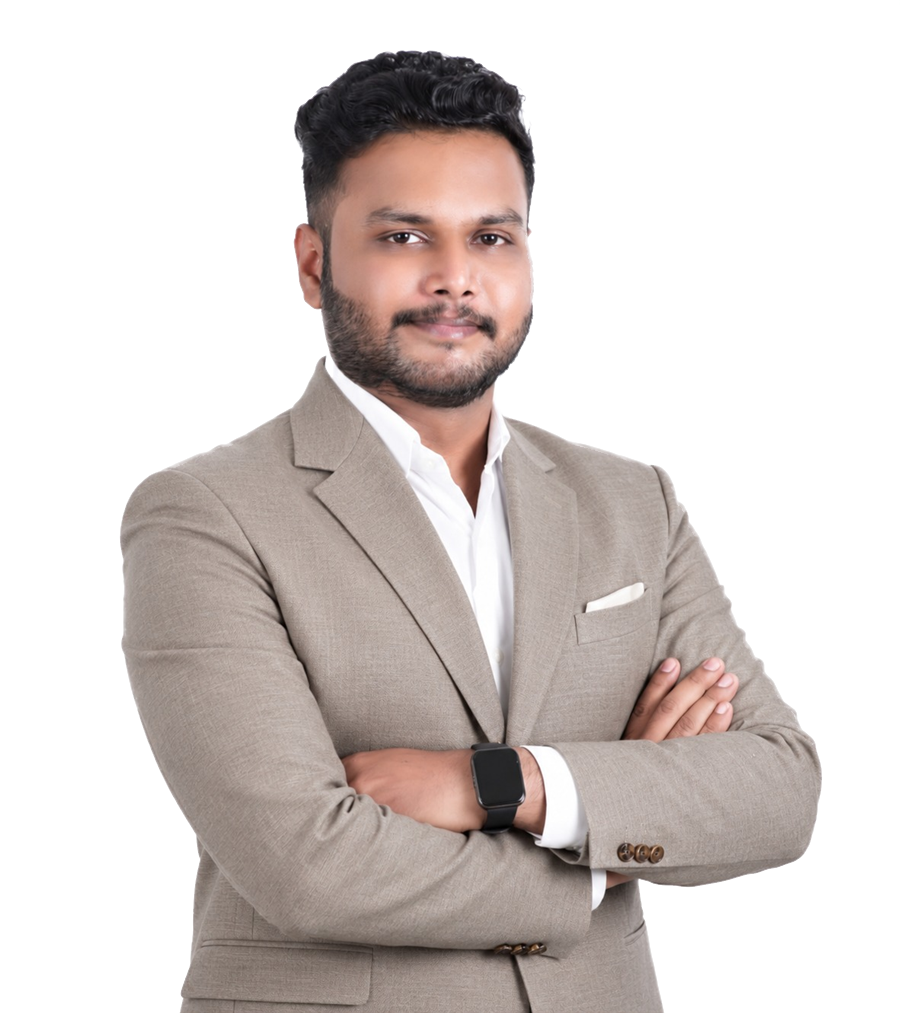
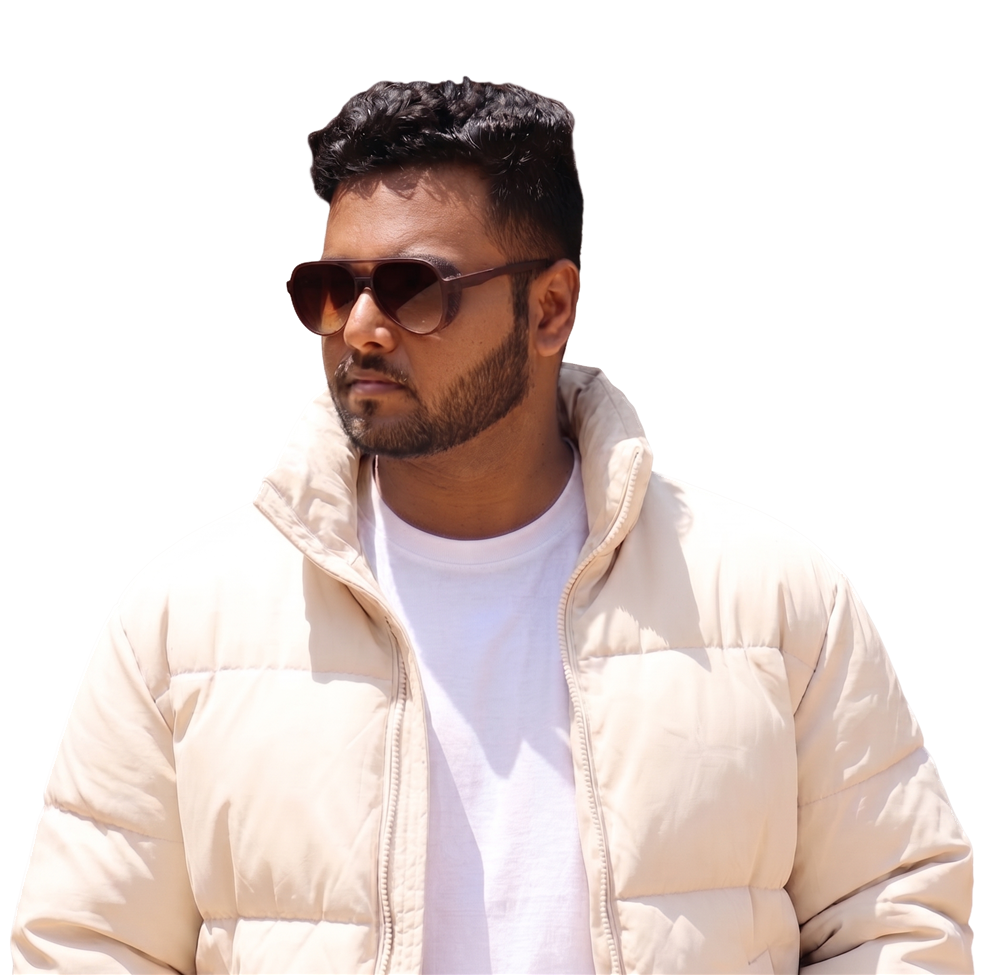
Replace profile photo with new cut-out portrait

diff --git a/index.html b/index.html
@@ -575,7 +575,7 @@ dialog.case[open]{animation:dlg 520ms var(--pop)}
       </div>
       <div class="visual rv" aria-label="Portrait and campaign previews">
         <div class="portrait" id="portrait">
-          <img src="rachith.png" alt="Portrait of Rachith R Nair" width="900" height="1013">
+          <img src="rachith.png" alt="Portrait of Rachith R Nair" width="1000" height="975">
           <span class="tagline">Dubai, UAE</span>
         </div>
         <div class="slides" id="slides" aria-hidden="true">
